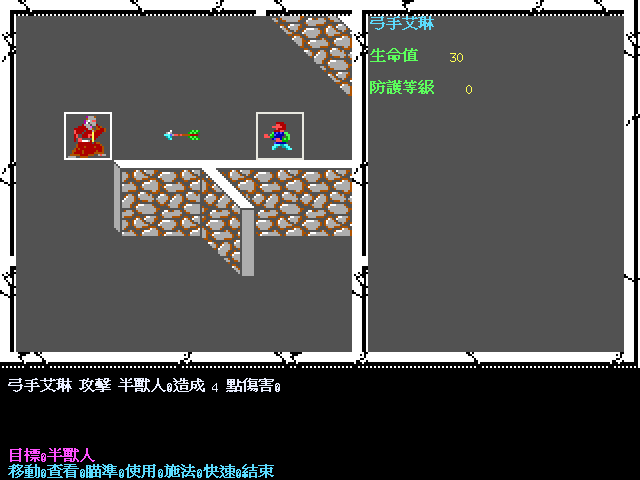
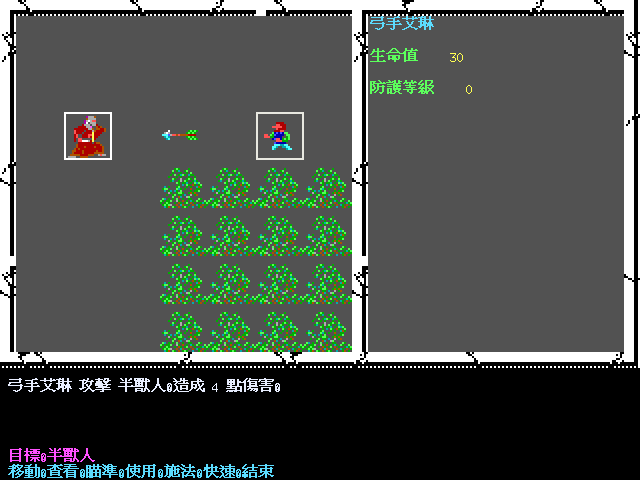
Drive combat visuals from game pack

Changed region(s): [[0.1562, 0.25, 0.5625, 0.75], [0.4375, 0.0312, 0.5625, 0.2188]]

diff --git a/cmd/azure-bonds-game/main.go b/cmd/azure-bonds-game/main.go
@@ -42,6 +42,7 @@ import (
 	"github.com/wicanr2/Curse-of-the-Azure-Bonds-cht/internal/party"
 	"github.com/wicanr2/Curse-of-the-Azure-Bonds-cht/internal/sound"
 	enginearea "github.com/wicanr2/golden-box-remake-engine/areamap"
+	goldenengine "github.com/wicanr2/golden-box-remake-engine/engine"
 )
 
 const (
@@ -84,6 +85,7 @@ type app struct {
 	combatSpriteIDs     []string
 	combatTerrain       map[string][]*ebiten.Image
 	combatTerrainMode   string
+	gamePack            *goldenengine.Pack
 	combatFrame         *ebiten.Image
 	adventureFrame      *ebiten.Image
 	combatAnimations    map[string][]combatAnimation
@@ -1823,20 +1825,23 @@ func (a *app) drawCombatVisual(screen *ebiten.Image, event combat.VisualEvent, f
 	case combat.VisualTravel:
 		switch event.Kind {
 		case combat.VisualMissile:
-			key, flip := combatArrowSprite(event, camera)
-			if !a.drawCombatProjectileSprite(screen, key, flip, x, y) {
+			definition, _ := a.findCombatVisual("missile", "travel")
+			key, flip := combatArrowSprite(definition, event, camera)
+			if !a.drawCombatProjectileSprite(screen, key, flip, definition.Scale, x, y) {
 				ebitenutil.DrawLine(screen, fromX, fromY, x, y, color.RGBA{R: 255, G: 244, B: 180, A: 255})
 			}
 		case combat.VisualMagicMissile:
-			key, flip := combatMagicMissileSprite(event, frame)
-			if !a.drawCombatProjectileSprite(screen, key, flip, x, y) {
+			definition, _ := a.findCombatVisual("magic_missile", "travel")
+			key, flip := combatMagicMissileSprite(definition, event, frame)
+			if !a.drawCombatProjectileSprite(screen, key, flip, definition.Scale, x, y) {
 				ebitenutil.DrawRect(screen, x-4, y-4, 8, 8, color.RGBA{R: 126, G: 205, B: 255, A: 255})
 			}
 		}
 	case combat.VisualImpact:
 		if event.Kind == combat.VisualMagicMissile && event.Hit {
-			key, flip := combatMagicImpactSprite(frame)
-			a.drawCombatProjectileSprite(screen, key, flip, toX, toY)
+			definition, _ := a.findCombatVisual("magic_missile", "impact")
+			key, flip := combatMagicImpactSprite(definition, frame)
+			a.drawCombatProjectileSprite(screen, key, flip, definition.Scale, toX, toY)
 		}
 	case combat.VisualDeath:
 		iconKey := "comspr-block-8B-item-00.png"
@@ -1852,44 +1857,43 @@ func (a *app) drawCombatVisual(screen *ebiten.Image, event combat.VisualEvent, f
 	}
 }
 
-func (a *app) drawCombatProjectileSprite(screen *ebiten.Image, key string, flip bool, x, y float64) bool {
+func (a *app) findCombatVisual(trigger, phase string) (goldenengine.CombatVisualDefinition, bool) {
+	if a.gamePack == nil {
+		return goldenengine.CombatVisualDefinition{}, false
+	}
+	return a.gamePack.FindCombatVisual(trigger, phase)
+}
+
+func (a *app) drawCombatProjectileSprite(screen *ebiten.Image, key string, flip bool, scale int, x, y float64) bool {
 	sprite := a.combatSprites[key]
 	if sprite == nil {
 		return false
 	}
+	if scale < 1 {
+		scale = 1
+	}
+	width := float64(sprite.Bounds().Dx() * scale)
+	height := float64(sprite.Bounds().Dy() * scale)
 	op := &ebiten.DrawImageOptions{}
 	if flip {
-		op.GeoM.Scale(-2, 2)
-		op.GeoM.Translate(x+24, y-24)
+		op.GeoM.Scale(float64(-scale), float64(scale))
+		op.GeoM.Translate(x+width/2, y-height/2)
 	} else {
-		op.GeoM.Scale(2, 2)
-		op.GeoM.Translate(x-24, y-24)
+		op.GeoM.Scale(float64(scale), float64(scale))
+		op.GeoM.Translate(x-width/2, y-height/2)
 	}
 	screen.DrawImage(sprite, op)
 	return true
 }
 
-func combatArrowSprite(event combat.VisualEvent, camera combat.CombatCamera) (key string, flip bool) {
+func combatArrowSprite(definition goldenengine.CombatVisualDefinition, event combat.VisualEvent, camera combat.CombatCamera) (key string, flip bool) {
 	from := mirroredCombatAnchor(camera.Apply(event.From))
 	to := mirroredCombatAnchor(camera.Apply(event.To))
-	switch combatProjectileDirection(to.X-from.X, to.Y-from.Y) {
-	case 0:
-		return "comspr-block-00-item-00.png", false
-	case 1:
-		return "comspr-block-01-item-00.png", false
-	case 2:
-		return "comspr-block-02-item-00.png", false
-	case 3:
-		return "comspr-block-81-item-00.png", false
-	case 4:
-		return "comspr-block-80-item-00.png", false
-	case 5:
-		return "comspr-block-81-item-00.png", true
-	case 6:
-		return "comspr-block-82-item-00.png", false
-	default:
-		return "comspr-block-01-item-00.png", true
+	frame, ok := definition.FrameForDirection(uint8(combatProjectileDirection(to.X-from.X, to.Y-from.Y)))
+	if !ok {
+		return "", false
 	}
+	return combatVisualSpriteKey(frame)
 }
 
 // combatProjectileDirection matches the original clockwise numbering:
@@ -1905,34 +1909,29 @@ func combatProjectileDirection(dx, dy int) int {
 	return int(math.Floor(angle/(math.Pi/4)+0.5)) % 8
 }
 
-func combatMagicMissileSprite(event combat.VisualEvent, frame combat.VisualFrame) (key string, flip bool) {
+func combatMagicMissileSprite(definition goldenengine.CombatVisualDefinition, event combat.VisualEvent, frame combat.VisualFrame) (key string, flip bool) {
 	steps := max(absInt(event.To.X-event.From.X), absInt(event.To.Y-event.From.Y)) * 3
 	if steps < 1 {
 		steps = 1
 	}
-	switch int(frame.Progress*float64(steps)) % 4 {
-	case 0:
-		return "comspr-block-05-item-00.png", false
-	case 1:
-		return "comspr-block-05-item-00.png", true
-	case 2:
-		return "comspr-block-85-item-00.png", true
-	default:
-		return "comspr-block-85-item-00.png", false
+	if len(definition.Frames) == 0 {
+		return "", false
 	}
+	return combatVisualSpriteKey(definition.Frames[int(frame.Progress*float64(steps))%len(definition.Frames)])
 }
 
-func combatMagicImpactSprite(frame combat.VisualFrame) (key string, flip bool) {
-	switch min(int(frame.Progress*4), 3) {
-	case 0:
-		return "comspr-block-0A-item-00.png", false
-	case 1:
-		return "comspr-block-0A-item-00.png", true
-	case 2:
-		return "comspr-block-8A-item-00.png", true
-	default:
-		return "comspr-block-8A-item-00.png", false
+func combatMagicImpactSprite(definition goldenengine.CombatVisualDefinition, frame combat.VisualFrame) (key string, flip bool) {
+	if len(definition.Frames) == 0 {
+		return "", false
 	}
+	index := min(int(frame.Progress*float64(len(definition.Frames))), len(definition.Frames)-1)
+	return combatVisualSpriteKey(definition.Frames[index])
+}
+
+func combatVisualSpriteKey(frame goldenengine.CombatVisualFrame) (key string, flip bool) {
+	extension := filepath.Ext(frame.SourceFile)
+	stem := strings.ToLower(strings.TrimSuffix(frame.SourceFile, extension))
+	return fmt.Sprintf("%s-block-%02X-item-00.png", stem, frame.Block), frame.FlipX
 }
 
 func absInt(value int) int {
@@ -2643,7 +2642,7 @@ func main() {
 		visualSerial = event.Serial
 		visualStarted = time.Now().Add(-offset)
 	}
-	if err := ebiten.RunGame(&app{state: state, imagePath: *imagePath, face: regularFace, compactFace: compactFace, partyPath: *partyPath, savgamDir: *savgamDir, savgamSlot: loadedSAVGAMSlot, savgamSlotSave: loadedSAVGAMSlot != 0, soundPlayer: soundPlayer, tileImages: tileImages, areaMapSymbols: areaMapSymbols, skyImages: skyImages, geoGrid: geoGrid, areaMapPreview: *areaMapPreview, dungeonFloor: dungeonFloor, dungeonX: dungeonX, dungeonY: dungeonY, geoLabel: geoLabel, geoCatalog: geoCatalog, geoSet: geoRef.Set, geoBlock: geoRef.BlockID, pieceSets: make(map[uint8]gfx.PieceSet), combatSprites: combatSprites, combatSpriteIDs: combatSpriteIDs, combatTerrain: combatTerrain, combatTerrainMode: *combatTerrainMode, combatFrame: ebiten.NewImageFromImage(gfx.CombatFrame()), adventureFrame: ebiten.NewImageFromImage(gfx.AdventureFrame()), combatAnimations: combatAnimations, animationStart: time.Now(), combatVisualSerial: visualSerial, combatVisualStarted: visualStarted, combatVisualElapsed: time.Since(visualStarted), screenshotPath: *screenshotPath}); err != nil {
+	if err := ebiten.RunGame(&app{state: state, imagePath: *imagePath, face: regularFace, compactFace: compactFace, partyPath: *partyPath, savgamDir: *savgamDir, savgamSlot: loadedSAVGAMSlot, savgamSlotSave: loadedSAVGAMSlot != 0, soundPlayer: soundPlayer, tileImages: tileImages, areaMapSymbols: areaMapSymbols, skyImages: skyImages, geoGrid: geoGrid, areaMapPreview: *areaMapPreview, dungeonFloor: dungeonFloor, dungeonX: dungeonX, dungeonY: dungeonY, geoLabel: geoLabel, geoCatalog: geoCatalog, geoSet: geoRef.Set, geoBlock: geoRef.BlockID, pieceSets: make(map[uint8]gfx.PieceSet), combatSprites: combatSprites, combatSpriteIDs: combatSpriteIDs, combatTerrain: combatTerrain, combatTerrainMode: *combatTerrainMode, gamePack: pack, combatFrame: ebiten.NewImageFromImage(gfx.CombatFrame()), adventureFrame: ebiten.NewImageFromImage(gfx.AdventureFrame()), combatAnimations: combatAnimations, animationStart: time.Now(), combatVisualSerial: visualSerial, combatVisualStarted: visualStarted, combatVisualElapsed: time.Since(visualStarted), screenshotPath: *screenshotPath}); err != nil {
 		log.Fatal(err)
 	}
 }

diff --git a/cmd/azure-bonds-game/main_test.go b/cmd/azure-bonds-game/main_test.go
@@ -6,6 +6,7 @@ import (
 	"reflect"
 	"testing"
 
+	"github.com/wicanr2/Curse-of-the-Azure-Bonds-cht/gamepack"
 	"github.com/wicanr2/Curse-of-the-Azure-Bonds-cht/internal/combat"
 	"github.com/wicanr2/Curse-of-the-Azure-Bonds-cht/internal/mapdata"
 )
@@ -56,21 +57,37 @@ func TestCombatProjectileDirectionUsesOriginalClockwiseOctants(t *testing.T) {
 }
 
 func TestCombatArrowSpriteUsesCOMSPRDirectionBlocks(t *testing.T) {
+	pack, err := gamepack.Default()
+	if err != nil {
+		t.Fatal(err)
+	}
+	definition, found := pack.FindCombatVisual("missile", "travel")
+	if !found {
+		t.Fatal("missing missile/travel combat visual")
+	}
 	camera := combat.NewCombatCamera(combat.TilePoint{}, combat.TilePoint{}, false)
 	event := combat.VisualEvent{
 		From: combat.TilePoint{X: 5, Y: 2},
 		To:   combat.TilePoint{X: 1, Y: 2},
 	}
-	if key, flip := combatArrowSprite(event, camera); key != "comspr-block-02-item-00.png" || flip {
+	if key, flip := combatArrowSprite(definition, event, camera); key != "comspr-block-02-item-00.png" || flip {
 		t.Fatalf("east arrow=(%q,%v)", key, flip)
 	}
 	event.From, event.To = event.To, event.From
-	if key, flip := combatArrowSprite(event, camera); key != "comspr-block-82-item-00.png" || flip {
+	if key, flip := combatArrowSprite(definition, event, camera); key != "comspr-block-82-item-00.png" || flip {
 		t.Fatalf("west arrow=(%q,%v)", key, flip)
 	}
 }
 
 func TestCombatMagicMissileCyclesOriginalFourCOMSPRFrames(t *testing.T) {
+	pack, err := gamepack.Default()
+	if err != nil {
+		t.Fatal(err)
+	}
+	definition, found := pack.FindCombatVisual("magic_missile", "travel")
+	if !found {
+		t.Fatal("missing magic_missile/travel combat visual")
+	}
 	event := combat.VisualEvent{
 		From: combat.TilePoint{X: 0, Y: 0},
 		To:   combat.TilePoint{X: 4, Y: 0},
@@ -86,7 +103,7 @@ func TestCombatMagicMissileCyclesOriginalFourCOMSPRFrames(t *testing.T) {
 	}
 	for index, expected := range want {
 		frame := combat.VisualFrame{Phase: combat.VisualTravel, Progress: float64(index) / 12}
-		key, flip := combatMagicMissileSprite(event, frame)
+		key, flip := combatMagicMissileSprite(definition, event, frame)
 		if key != expected.key || flip != expected.flip {
 			t.Fatalf("frame %d=(%q,%v), want (%q,%v)", index, key, flip, expected.key, expected.flip)
 		}
@@ -94,6 +111,14 @@ func TestCombatMagicMissileCyclesOriginalFourCOMSPRFrames(t *testing.T) {
 }
 
 func TestCombatMagicImpactCyclesOriginalCOMSPRHitFrames(t *testing.T) {
+	pack, err := gamepack.Default()
+	if err != nil {
+		t.Fatal(err)
+	}
+	definition, found := pack.FindCombatVisual("magic_missile", "impact")
+	if !found {
+		t.Fatal("missing magic_missile/impact combat visual")
+	}
 	want := []struct {
 		key  string
 		flip bool
@@ -104,7 +129,7 @@ func TestCombatMagicImpactCyclesOriginalCOMSPRHitFrames(t *testing.T) {
 		{"comspr-block-8A-item-00.png", false},
 	}
 	for index, expected := range want {
-		key, flip := combatMagicImpactSprite(combat.VisualFrame{
+		key, flip := combatMagicImpactSprite(definition, combat.VisualFrame{
 			Phase: combat.VisualImpact, Progress: float64(index) / 4,
 		})
 		if key != expected.key || flip != expected.flip {

diff --git a/gamepack/gamepack_test.go b/gamepack/gamepack_test.go
@@ -13,6 +13,25 @@ func TestEmbeddedPackValidatesAndOwnsZhentilText(t *testing.T) {
 	if pack.ID != "curse-of-the-azure-bonds.pit-of-moander" {
 		t.Fatalf("pack id=%q", pack.ID)
 	}
+	arrow, found := pack.FindCombatVisual("missile", "travel")
+	if !found || arrow.ID != "coab.arrow" || arrow.Scale != 2 ||
+		arrow.ReferenceDelay != 10 || len(arrow.Frames) != 8 {
+		t.Fatalf("arrow combat visual=%+v found=%v", arrow, found)
+	}
+	west, found := arrow.FrameForDirection(6)
+	if !found || west.SourceFile != "COMSPR.DAX" || west.Block != 0x82 || west.FlipX {
+		t.Fatalf("west arrow frame=%+v found=%v", west, found)
+	}
+	magicTravel, found := pack.FindCombatVisual("magic_missile", "travel")
+	if !found || magicTravel.ReferenceDelay != 30 || len(magicTravel.Frames) != 4 ||
+		magicTravel.Frames[2].Block != 0x85 || !magicTravel.Frames[2].FlipX {
+		t.Fatalf("magic travel combat visual=%+v found=%v", magicTravel, found)
+	}
+	magicImpact, found := pack.FindCombatVisual("magic_missile", "impact")
+	if !found || magicImpact.ReferenceDelay != 70 || len(magicImpact.Frames) != 4 ||
+		magicImpact.Frames[3].Block != 0x8A || magicImpact.Frames[3].FlipX {
+		t.Fatalf("magic impact combat visual=%+v found=%v", magicImpact, found)
+	}
 	tilverton, found := pack.FindMapByKindLocation("first_person", 2, 1)
 	if !found || tilverton.ID != "tilverton.first-person" ||
 		tilverton.GeometryFile != "GEO2.DAX" ||

diff --git a/AGENTS.md b/AGENTS.md
@@ -155,8 +155,7 @@ combat layout reconstructed，尚未宣稱整張 combat frame pixel-exact。
 
 - 工作已於 2026-07-29 恢復，不再遵守舊的「暫停新增功能」文字。
 - CoAB 基底：`d9718a1`（兜帽女子、手札 30／7、弗佐爾死亡、第四枷印解除）。
-- Engine dependency：`051cd71`（ECL `script_block` 與 GEO `geometry_block`
-  可獨立宣告）。
+- Engine dependency：`511ef40`（含 ECL/GEO 分離與 `combat_visuals` schema）。
 - 本文件所在 commit 會晚於上述 CoAB 基底；compact 後永遠先以兩個 repo 的
   實際 HEAD／remote 為準，不要把文件內 hash 當成可自我引用的 latest hash。
 - GUI 邊框、左上 cover、16×15 倚天、PC-98 typography study 已完成並 push。
@@ -165,21 +164,19 @@ combat layout reconstructed，尚未宣稱整張 combat frame pixel-exact。
   玩家路徑、戰鬥規則/AI/法術/戰後、全地圖、全翻譯、音樂音效、完整 save、
   三平台發行與長時間回歸。
 
-### 目前未提交 milestone（不可遺忘）
+### 目前戰鬥 milestone（不可遺忘）
 
-- 第 354 輪第一階段時間軸已 push。dirty milestone 是 spec 354 第二階段：
-  `combat.VisualEvent` 已建立 windup→handoff 時間軸，Ebiten 每次只播放一個
-  actor action；melee、bow、Magic Missile、death 已接入 phase-aligned
-  renderer／sound，現在共有五張 deterministic Xvfb frame。
-- 箭與 Magic Missile fallback 已由原版 COMSPR 取代：箭使用
-  `0x00/01/02`＋attack/flip 八方向；generic spell travel 使用
-  `0x05/0x85` 四格，Magic damage impact 使用 `0x0A/0x8A` 四格。
-  DOS 影片 `wwYsij1wDC4` `00:42:25.20–25.40` 已證實 travel 先於文字／area
-  effect。spec 354 仍 IN PROGRESS，下一步補弓箭、Magic Missile、melee、
-  kill 的完整時間碼與逐距離 duration。
+- 第 354 輪時間軸、原版 COMSPR projectile 與 engine JSON 資料化已完成。
+  `combat.VisualEvent` 使用 windup→handoff；箭、Magic Missile travel／impact
+  的 source block、flip、scale、原始 delay 已移入 CoAB `combat_visuals`，
+  frontend 不再寫死這三組作品素材表。
+- DOS 影片 `wwYsij1wDC4` `00:42:25.20–25.40` 已證實 generic spell travel
+  先於文字／area effect。spec 354 仍 IN PROGRESS；下一步補弓箭、
+  Magic Missile、melee、kill 的完整時間碼與逐距離 duration，並逐項建立
+  Fireball、Lightning Bolt、Stinking Cloud／Cloudkill 的影片 oracle。
 - screenshot demo 必須凍結 `combatVisualElapsed`，不能讓 Ebiten／Xvfb
   啟動耗時推進 timeline；這是戰鬥影片時間碼比對的固定基線。
-- 完整驗證後把本階段集中一次 commit＋push；不要為文件或單張圖拆 commit。
+- 每個新增戰鬥效果完成影片核對、測試與畫面後才集中 commit＋push。
 
 ## 10. Compact 後恢復工作清單
 

diff --git a/docs/spec/354-combat-action-timeline.md b/docs/spec/354-combat-action-timeline.md
@@ -62,9 +62,17 @@ Fireball、Lightning Bolt、Cloudkill 等範圍法術要在此共同時間軸通
 - DOS 公開影片 `wwYsij1wDC4` 的 `00:42:25.20–25.40` 逐格顯示
   Stinking Cloud 共用的青色 spell projectile，約 `25.50` 清除、`25.60`
   才出現文字與雲格；與 `0x05/0x85` consumer 路徑交叉吻合。
+- 共用 engine `combat_visuals` schema 現可驗證 trigger／phase、逐格 frame
+  及完整八方向 frame；CoAB game pack 宣告 arrow、Magic Missile travel
+  與 magic-damage impact 的 COMSPR source、block、flip、scale 及原始
+  `SysDelay` 參考值。frontend 不再保存這三組 title-specific block table。
+- JSON 驅動後重新由 Docker／Xvfb 擷取 bow、magic、magic-impact 三張
+  640×480 checkpoint，並由 frontend 與 game-pack regression 直接驗證
+  圖片 key 是從 pack frame 產生。
 
 目前 projectile pixel source 與方向／frame ordering 已有 code-backed
 evidence，但原版 `SysDelay(10/30/70)` 尚不能直接換算 wall-clock。完成本規格
 仍需弓箭、Magic Missile、melee、kill 的 DOSBox／公開影片完整時間碼與短
-capture，並把逐距離 cadence 與目前 frontend 中的 COMSPR key mapping 移入
-共用 engine schema 支援的 title JSON asset-pack。
+capture，並把逐距離 cadence 寫成經影片驗證的 duration 規則。Fireball、
+Lightning Bolt、Stinking Cloud／Cloudkill 等效果仍須各自建立影片 oracle
+與 JSON 定義，不能因共用投射物已出現就視為完整法術動畫。

diff --git a/README.md b/README.md
@@ -80,11 +80,15 @@ renderer-neutral transaction 在固定 phase 的 Docker／Xvfb 實機 frame：
 
 弓箭現使用原版 COMSPR `0x00/01/02` 與方向 variants；Magic Missile
 travel 使用原版 `0x05/0x85` 四格，命中使用 `0x0A/0x8A` 四格，不再用
-renderer primitive。`SoundMissile`、hit/miss、magic-hit、death 已依 phase
+renderer primitive。這些 source block、八方向與 flip 已移至 CoAB JSON
+game pack，由獨立 Golden Box engine schema 驗證，frontend 不再寫死作品
+素材表。`SoundMissile`、hit/miss、magic-hit、death 已依 phase
 送出，敵方 AI 也改成一個 action 播完才 handoff。公開 DOS 影片
 [`00:42:25.20–25.40`](docs/reference/original-dos/combat-video-oracle.md)
 已逐格交叉驗證 generic spell projectile；弓箭 wall-clock cadence 與其餘
 法術 timing 仍待 DOSBox／影片補齊，不能宣稱整套戰鬥 pixel/timing exact。
+Fireball、Lightning Bolt、Stinking Cloud／Cloudkill 等法術也會依公開實機
+影片逐項補齊 travel、area effect 與命中時序，不會用 Magic Missile 爆點代替。
 
 ![DOS 影片中的原版 spell projectile](docs/reference/original-dos/combat-spell-projectile-422530.png)
 

diff --git a/docs/project-status.md b/docs/project-status.md
@@ -63,7 +63,7 @@ commit 內保存不可能自我引用的 hash。
 - 全部 ECL opcode、外部 routine、副作用及由開場到結局的完整可通關流程。
 - 所有城市、地城、門、屋頂、斜向視角與每張地圖的 DOS 像素級校準。
 - 戰鬥畫面的完整 DOS oracle 校準、弓箭／法術 projectile 的逐距離 timing、
-  所有方向 placement、AI、法術、物品、
+  所有方向 placement、Fireball／Lightning Bolt／雲霧等獨立法術效果、AI、法術、物品、
   特殊能力、逃跑／交涉與戰後流程。
 - 全角色／怪物／物品／法術 AD&D 規則及完整多職業、alignment、升級規則。
 - 全英文文本、59 則 Journal（目前新增完成 50／51）、Tavern Tales、
